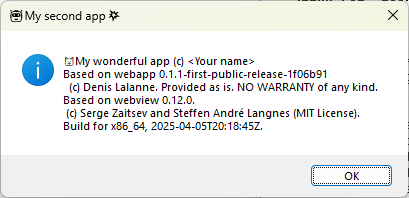
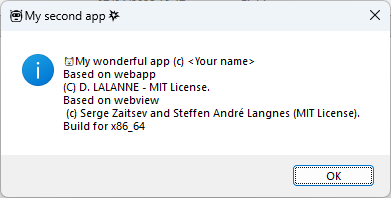
Checked in by Denis from PC-Denis-2 on Sat, Nov 15, 2025 12:52:36 PM

diff --git a/tutorial/second_app/index.html b/tutorial/second_app/index.html
@@ -5,9 +5,6 @@
   <meta charset="UTF-8">
   <meta http-equiv="Content-Type" content="text/plain; charset=utf-8">
   <title>🤖My second app💥</title>
-  <link rel="icon" type="image/x-icon" href="app.ico">
-  <style>
-  </style>
   <script>
     const msg = "My wonderful app (c) <Your name>";
     if (typeof app != "undefined" && typeof app.set_title == "function") {

diff --git a/src/app_binds.cpp b/src/app_binds.cpp
@@ -293,7 +293,7 @@ void create_app_binds(webview_wrapper &w)
         prev_ico = w.set_icon(ico);
         return w.json_escape(prev_ico);
       },
-      "set window top left icon and return the previous one if thre was.", //
+      "set window top left icon and return the previous one if there was.", //
       -1);
 
   // Set a move callback

diff --git a/README.md b/README.md
@@ -1,27 +1,250 @@
-## WebView Application template  
+# WebApp
+
 *A tool to create standalone applications based on web technology.*  
-This application uses the : [webview library](https://github.com/webview/webview.git).  
-1. For those who want to try the tool, a tutorial is available in [webapp_tutorial.md](webapp_tutorial.md).  
-2. And to dive a little bit deeper into it, a user documentation and reference is available with the file '[webapp_quick_user_doc_and_reference.md](webapp_quick_user_doc_and_reference.md)'. It basically repeats what is already indicated with the -h/--help and -u options and also what you can test in the folder 'examples/01-test_bed' coming with the source package.  
-3. The package release with sources and binaries(for Windows and Linux) is available [there](https://github.com/2nil-web/webapp/releases)
-4. Prerequisites to build the app are:  
+
+## 1. Tutorial
+
+The goal of the webapp tool is to allow creating applications with web technology in the simplest possible way, assuming you already have some basic knowledge of creating web pages based on HTML, CSS and Javascript. It provide a set of local Operating System API with a very low overhead (less than 1 MB).
+
+It works seamlessly, on both Windows and Linux Operating Systems.
+With this tutorial you will learn its general philosophy by creating simple applications.
+
+*Could be compared to Node.js with Electron, without the Software bloat.*
+
+### How to write an app in 2 steps
+
+#### First step/First app: Hello World!
+
+Our first application will be the everlasting "Hello World!" app.
+ To achieve that just create a folder, let’s call it "my_app".
+ Then within this folder, create a file named "index.html" containing the sentence "Hello world!" and drop the webapp binary into that folder, run it and your application appears:
+
+<p align="center"><img src="tutorial/first_app.png"><br/>View of your First app</p>
+
+To insure your app to run on both Windows and Linux you may even drop the 2 systems binaries, they each have a weight of less than a MByte.
+
+Now if you want this application to have a persistent geometry, just add a file called ".config.ini" in its folder. And now when you will move or resize its window, the last same size and position will be used each time the app will be invoked.
+
+#### Second step/second app
+
+Now for a somewhat more complex app, modify the file "index.html" to have the following content:
+
+```html
+<!DOCTYPE html>
+<html>
+<head>
+    <meta charset="UTF-8">
+    <meta http-equiv="Content-Type" content="text/plain; charset=utf-8">
+    <title>🤖My second app💥</title>
+    <script>
+        const msg = "My wonderful app (c) <Your name>";
+        console.log("Starting");
+        if (app && typeof app !== "undefined" && typeof app.set_title === "function") {
+            console.log("Starting as a webapp");
+            app.show();
+            app.set_title(document.title);
+            app.set_icon("app.ico");
+            //app.set_size(300,200);
+            function clicked() {
+                gui.msgbox("&#128570;" + msg + '\nBased on ' + app.info)
+            }
+        } else {
+            console.log("Starting as a web page");
+            function clicked() {
+                alert("😺" + msg);
+            }
+        }
+    </script>
+</head>
+<body>
+    Hello world !
+    <br />
+    <button onclick="clicked()">Click me !</button>
+</body>
+</html>
+```
+
+You may also add an application icon in the folder.
+*See the call to "app.set_icon(app.ico)" in the "script" block of the index.html file.*
+
+And when running the webapp binary the following windows will appears:
+
+<p align="center"><img src="tutorial/second_app.png"><br/>Second app</p>
+
+And if you click the "Click me!" button, the following dialog appears:
+
+<p align="center"><img src="tutorial/second_app-dialog.png"><br/>Native msgbox with your app</p>
+
+Also notice that in the way this app has been created, it may also run correctly under a web browser. See the below examples:
+
+<p align="center"><img src="tutorial/second_app-chrome.png"><br/>Second app under Chrome</p>
+<p align="center"><img src="tutorial/second_app-firefox.png"><br/>Second app under Firefox</p>
+
+But it would not always be the case, notably when using the webapp "local objects", like app, fs, gui which are not part of any web browser.
+
+#### Options and API
+
+The webapp options and objects are documented by invoking the binary alone (without any index.html on its side or without any options), here follows the output:
+
+```console
+webapp version 0.6.0-Theo  
+(C) D. LALANNE - MIT License.  
+Usage: webapp [OPTIONS] ARGUMENTS  
+Available options  
+ -p, --prompt            Change the interpreted mode prompt (default is '>').  
+ -v, --version           Output version information (And exit if not in interpreted mode).  
+ -h, --help              Display this message (And exit if not in interpreted mode).  
+ -b, --browser-args ARG  Provide additional browser arguments to the webview2 component.  
+ -c, --html ARG          Provide an html string that will be directly set to the webview.  
+ -f, --url ARG           Provide a url, a remote one must prepended with 'http://', a local one must have one of the following extensions .html, .htm, .webapp or .wa.  
+ -w, --work-dir ARG      Provide the path where could be found a file with a name within the following ones: webview.min.html, webview.html, index.min.html, index.html, index.min.js, index.js.  
+    The use of these 3 previous options is mutually exclusive.  
+    It is also possible to directly provide their argument as the last one of the command (hence witout the option), but prepended with "html://", for -c.  
+ -t, --title ARG         Set the title of the webview windows, default is to display the url as title if it is provided or nothing if just an html string is provided.  
+ -j, --js ARG            Inject a javascript command before loading html page.  
+ -r, --runjs ARG         Run the provided javascript command and exits.  
+ -d, --debug             Activate the developper mode in the webview.  
+ -l, --log-level ARG     Set the log level. Their precedence is: ALL < TRACE < DEBUG < INFO < WARN < ERROR < FATAL < OFF.  
+ -g, --log-file ARG      Set the log file name.  
+ -q, --quiet             Alias for -l OFF.  
+    These three previous option may also be set by the environment variables 'LOG' and 'LOGFILE' but the options have precedence on the environment.  
+    If neither the environment nor the options are set then relies on the debug option if it is used to set the log level to 'DEBUG'.  
+ -u, --help-js           List and briefly explain all the javascript objects extending the webview.  
+ -n, --icon ARG          Set windows icon with the provided .ico file.  
+ -G, --geometry ARG      Attempt to modify geometry when starting the webapp with the one to four parameter passed, separated by commas (x, y, width, height).  
+ -m, --minimized         The webview window will be minimized at startup.  
+ -M, --maximized         The webview window will be maximized at startup.  
+ -s, --hidden            The webview window will not be shown at startup.  
+ -k, --hints ARG         Set webview hints => 0: width and height are default size, 1 set them as minimum bound, 2 set them as maximum bound. 3 they are fixed. Any other value is ignored.  
+A simple arguments will act as -p option.
+
+<u>List of the variables and functions for the objects extending the webview</u>  
+*<u>Variables:</u>
+Read-only ones are prepended by a '-'*
+-app.window_id: window id.
+-app.sysname: provide the name of the system, this may help to assert in your javascript code that you are running a webapp, something like <u>console.log(typeof app.system === 'undefined'?'not a webapp':'is a webapp')</u>.
+-app.title: title of the webapp window, usually displayed one its title bar.
+-app.icon: file name of the icon used by the webapp.
+-app.info: informations about the webapp.
+-app.args_line: A comma separated string containing the args passed to the webapp
+-app.x: horizontal position of the upper left corner of the webapp window.
+-app.y: vertical position of the upper left corner of the webapp window.
+-app.w: horizontal position of the lower left corner of the webapp window.
+-app.h: vertical position of the upper left corner of the webapp window.  
+All these coordinate variables are updated in real time. To assert it, try something like:  
+<u>(async()=>{ elt=document.createElement('i'); document.body.appendChild(elt); new Promise(function (resolve, reject) { (function _(){ coords=`(${app.x}, ${app.y}, ${app.w}, ${app.h})`; if (elt.innerText != coords) { elt.innerText=coords; } timeoutId=setTimeout(_, 10); })(); }) })()</u>  
+And to stop it, later:  
+<u>clearTimeout(timeoutId); elt.remove()</u>
+-app.left_border: left size of the horizontal border.
+-app.top_border: top size of the vertical border.
+-app.right_border: right size of the horizontal border.
+-app.bottom_border: bottom size of the vertical border.
+-app.state: contains the state of the application windows, may have one of the following values: normal, maximised, minimised, hidden, full_screen
+-app.last_error: may contains the last app object error
+-env.path: actual value of the PATH environment variable
+-fs.last_error: may contains the last fs object error
+-fs.cwd: current working directory
+*<u>Functions:</u>
+Asynchronous ones are prepended by a '*'*
+ app.help:accepts up to 1 parameter, return this help message and the list of all the available variables and functions for the objects extending the app.
+ app.echo:accepts up to 10 parameters, echo the parameter(s) and display on stdout
+ app.bring_to_top:accepts up to 1 parameter, Bring the window whose id is provided (or by default the app window) to the top of the z order.
+ app.restore:restore the webapp window.
+ app.minimize:minimize the webapp window.
+ app.maximize:maximize the webapp window.
+ app.enter_fullscreen:set the webapp window in fullscreen mode.
+ app.exit_fullscreen:exit the webapp window from fullscreen mode.
+ app.show:show the webapp window.
+ app.hide:hide the webapp window.
+ app.set_title:accepts up to 1 parameter, return the actual app title and change it if a new one is provided as a parameter.
+ app.set_pos:accepts up to 2 parameters, return the actual app position as a json object (x, y) and if there are parameters then change it.
+ app.center:center the window on the screen, the x and y position and width and height will never be out of the screen.
+ app.set_size:needs 3 parameters, change the app size with the first 2 provided parameters, a third optional parameter may be added to indicate if you want to define one of the following:  0 change the the app window size (this is the default feature).  1 fix a minimum size bounds.  2 fix a maximum size bounds.  3 set a fixed size. 4 change the app size without taking into account its window borders (default feature is to take it). Return the effectively applied size as a json array [ w, h ]
+ app.border_size:return the border size as a json array [ left, top, right, bottom ].
+ app.set_geometry:accepts up to 4 parameters, return the actual app position and size as a json object (x, y, w, h) and if there are parameters then change it.
+ app.set_icon:accepts up to 1 parameter, set window top left icon and return the previous one if thre was.
+ app.on_geometry:accepts up to 1 parameter, set callback to detect when webapp has moved.
+ app.on_close:needs 1 parameter, Bypass the window close button functionnality with the provided javascript commands, it is up to the programmer to decide to call the exit function afterwards.
+ app.exit:exit from webapp.
+*app.system:needs 1 parameter, run an external command in a thread and return its output.
+*app.pipe:needs 1 parameter, run an external command in a pipe and return its output.
+*app.wpipe:needs 1 parameter, run an external command in a wstring pipe and return its URI encoded output.
+*app.shell:needs 1 parameter, open an external windows command in a thread (See ShellExecute) and return its output.
+*env.get:needs 1 parameter, return the value of an environment variable.
+ env.set:needs 2 parameters, set an environment variable to a given value and return the previous one if it existed.
+ env.ins:needs 2 parameters, insert a value into an environment variable and return the previous one if it existed.
+ env.add:needs 2 parameters, add a value to an environment variable and return the previous one if it existed.
+ env.del:needs 1 parameter, delete an environment variable and return its last value if it existed.
+*env.get_path:return the value of the PATH environment variable.
+ env.add_path:needs 1 parameter, add a program path to the PATH env variable if is not yet added.
+ env.ins_path:needs 1 parameter, insert a program path to the PATH env variable if is not yet added.
+ env.set_path:needs 1 parameter, replace the whole value of the PATH environment variable with the provided one.
+ env.del_path:delete the value of the PATH environment variable.
+*fs.exists:needs 1 parameter, return true if file exists else false and set 'fs.last_error' variable.
+ fs.current_path:accepts up to 1 parameter, change the current path to the one provided, if any, and return it, if ok, else return false and set the variable 'fs.last_error'.
+*fs.absolute:needs 1 parameter, return the corresponding absolute path of a the parameter or false if error.
+*fs.mkdir:needs 1 parameter, create a directory with the provided path if it does not already exists and return true if ok else false and set the variable 'fs.last_error'.
+ fs.stat:accepts up to 2 parameters, gives information details on the provided path in json format if second parameter is true (else in text).
+*fs.ls:accepts up to 4 parameters, list path (default is current directory), in a simple (default) or detailled list if second parameter is true, in one of the following format: text(default), html or json as defined by the third parameter andrecursively if fourth parameter is true (default is not).
+*fs.copy:needs 2 parameters, copy a file or directory (recursively) from 'path1' to 'path2'. Already existing files are updated if necessary. Return true if ok else false and set the variable 'fs.last_error'.
+*fs.rename:needs 2 parameters, Moves or renames the filesystem object identified by the first parameter to the one provided by the second parameter as if by the POSIX rename. Return true if ok else false and set the variable 'fs.last_error'.
+*fs.remove:needs 1 parameter, remove a file or an empty directory, return true if ok else false and set the variable 'fs.last_error'.
+*fs.remove_all:needs 1 parameter, remove a file or a directory RECURSIVELY (BEWARE this erase everything underneath the directory !!)
+*fs.read:needs 1 parameter, read a file with the provided file name and return its content, if possible.
+*fs.read_to_base64:needs 1 parameter, read a binary file with the provided file name and return its content in base64 encoded text, if possible.
+*fs.write:at least 1 parameter, truncate and write to the file who's name is provided as the first parameter, the content of all the following parameters, return true if the operation was OK, else false.
+*fs.append:at least 1 parameter, append to the file who's name is provided as the first parameter, the content of all the following parameters, return true if the operation was OK, else false.
+*io.write:needs 1 parameter, write a string to stdout.
+*io.writeln:accepts up to 1 parameter, write a string and a carriage return to stdout.
+*io.ewrite:needs 1 parameter, write a string to stderr.
+*io.ewriteln:accepts up to 1 parameter, write a string and a carriage return to stderr.
+*io.read:read a string from stdin and return it.
+*io.readln:read a line ending with carriage return, from stdin and return it.
+*io.has_console:return true if has console else false.
+ gui.msgbox:accepts up to 2 parameters, display a message dialog in a 'close to Windows MessageBox style', First parameter is the message and second one indicate whether we need only an 'OK' button (0), or an 'OK' and a 'Cancel' button (1) or a 'Yes' and a 'No' button (2).
+ gui.opendlg:accepts up to 3 parameters, display a Windows file selection dialog with the eventually provided filter, initial directory and title. The filter consist in pairs of strings with the first of each providing the name and the second providing the pattern, eventual multiple pattern are separated by a comma (,) and eventual multiple pairs are separated by a pipe (|). If needed ',' & '|' might be neutralized by '\' (a doubled one in javascript).
+ gui.savedlg:accepts up to 3 parameters, display a Windows file selection dialog with the eventually provided filter, initial directory and title. The filter consist in pairs of strings with the first of each providing the name and the second providing the pattern, eventual multiple pattern are separated by a comma (,) and eventual multiple pairs are separated by a pipe (|). If needed ',' & '|' might be neutralized by '\' (a doubled one in javascript).
+ gui.folderdlg:accepts up to 3 parameters, display a Windows folder selection dialog with the eventually provided initial directory and title (Windows does not allow filter with folder selection).
+ win.dark_bar:accepts up to 1 parameter, Set (true) on unset (false) the dark mode for the window bar. It is the responsability of web application to manage a dark mode for the DOM.
+ win.printdlg:Open a print or preprint dialog (in this case parameter to true or 'preprint'.)
+*win.regsto:accepts up to 3 parameters, store a string to the Windows registry.
+*win.regget:accepts up to 3 parameters, retrieve a string from the Windows registry.
+ win.monitors_info:Return all monitors information in JSON format.
+ win.devices_info:Return all devices information in JSON format.
+ win.wallpapers_info:Return all wallpapers information in JSON format.
+ win.next_wallpaper:Try to advance to the next wallpaper in the slideshow, and return true if ok, else false.
+```
+
+## 2. Going deeper
+
+Have a look at the different examples located in the "examples" directory that comes with the sources package or the git repository.
+The binary packages (for both Windows and Linux) are available [there](https://github.com/2nil-web/webapp/releases).
+
+1. Prerequisites to build the app are:  
+   
    - git to download the webview library.  
    - make and g++ to build the webview lib and the app under linux, Windows (MSys2) and eventually MacOS (this last one not tested yet).  
    - Or Visual Studio under Windows.  
-   - WebView2 under Windows  
+   - WebView2 under Windows  (default part of the system with Windows 11).
    - gtk+-3.0 webkit2gtk-4.1 webkit2gtk-web-extension-4.1 gtkmm-3.0 under Debian.  
    - gtk4 webkitgtk-6.0 gtkmm-4.0 for Ubuntu, Arch and Fedora (compile but does not work ...)  
    - lsb_release  
-5. A Makefile is provided that allow the application to be built under the gcc/g++ compiler suite.  
-6. An .sln/.vcxproj pair of files is provided that allow the application to be built under the MS Visual Studio compiler suite.  
-7. The application is written in C++.  
-   - It is (*roughly*) tested under Windows and Linux(mainly Debian), but the binary produced under Debian also works under Fedora, Arch and Ubuntu.  
-   - It remains to be tested under MacOS although it should work (or at least compile ...), as stated by the webview library documentation ...  
+
+2. A Makefile is provided that allow the application to be built under the gcc/g++ compiler suite.  
+
+3. An .sln/.vcxproj pair of files is provided that allow the application to be built under the MS Visual Studio compiler suite.  
+
+4. The application is written in C++.  
+   
+   - It is (*roughly*) tested under Windows and Linux (mainly Debian), but the binary produced under Debian also works under Fedora, Arch and Ubuntu.  
+   - It remains to be tested under MacOS although it should work (or at least compile ...), as stated by the [webview ]([GitHub - webview/webview: Tiny cross-platform webview library for C/C++. Uses WebKit (GTK/Cocoa) and Edge WebView2 (Windows).](https://github.com/webview/webview))library documentation ...  
    - An svg icon is provided that can be used to create a .ico file with magick convert. Or provide your own .ico file.  
    - C++ files are formatted using clang-format  
    - HTML/CSS/JS files are formatted using js-beautify (from nodejs).  
    - The resulting binary size  can be reduced with upx (make upx).  
-8. Build  
-   - To set the webview library run the "scripts/update_webviews.sh" script under bash. And try to follow the script directives.  
+
+5. Build  
+   
+   - To correctly set the webview library run the "scripts/update_webviews.sh" script under bash. And try to follow the script directives.  
    - Then run make under Windows/MSys2 or Linux.  
    - Or build the webapp.sln under MS Visual Studio.

diff --git a/webapp_quick_user_doc_and_reference.md b/webapp_quick_user_doc_and_reference.md
@@ -1,6 +1,7 @@
 # A quick user documentation for webapp
 
-### 1. <ins>**The -h option output**</ins>  
+### 1. <ins>**The -h option output**</ins>
+
    **webapp 0.1.1-first-public-release**  
    A tool to create standalone applications based on web technology.  
    <ins>Usage:</ins> webapp [OPTIONS] ARGUMENT  
@@ -30,13 +31,15 @@
    -k Set webview hints => 0: width and height are default size, 1 set them as minimum bound, 2 set them as maximum bound. 3 they are fixed. Any other value is ignored.
    -a Do not generate javascript class instanciation for the webview extension functions</code>
 
-### 2. **<ins>Some indications</ins>**  
+### 2. **<ins>Some indications</ins>**
+
    *Regarding the added variables and functions to this webview app:*  
    **a)** To test them you may encapsulated their result in [template literal](https://developer.mozilla.org/docs/Web/JavaScript/Reference/Template_literals) within any output function such as console.log or through the DOM. Something similar to the following:  
 &nbsp;&nbsp;&nbsp;<code><ins>cls();console.log("Reworked content of the 'PATH' environment variable (path separators replaced by newlines):");console.log(`${env.path.replace(/;/g, "\n")}`)</ins></code>  
    **b)** Notice that when calling one of the functions, you have to deal with their asynchronous context by using  [promises](https://developer.mozilla.org/docs/Web/JavaScript/Reference/Global_Objects/Promise) or the [await](https://developer.mozilla.org/docs/Web/JavaScript/Reference/Operators/await) keyword in an [asynchronous function](https://developer.mozilla.org/docs/Web/JavaScript/Reference/Statements/async_function). Basically if you expect a return from any of these function you must call it in an asynchronous way. The only context that could allows you to avoid using asynchronous mode would be by calling a function that you do not expect its return, for instance '<code>app.set_title("New title")</code>, if you don't need to know the old title'.  
 
-### 3. **<ins>The -u output</ins>**  
+### 3. **<ins>The -u output</ins>**
+
    <ins>List of the variables and functions for the objects extending the webview</ins>  
    *<ins>Variables:</ins>*  
    Read-only ones are prepended by a '-'*  
